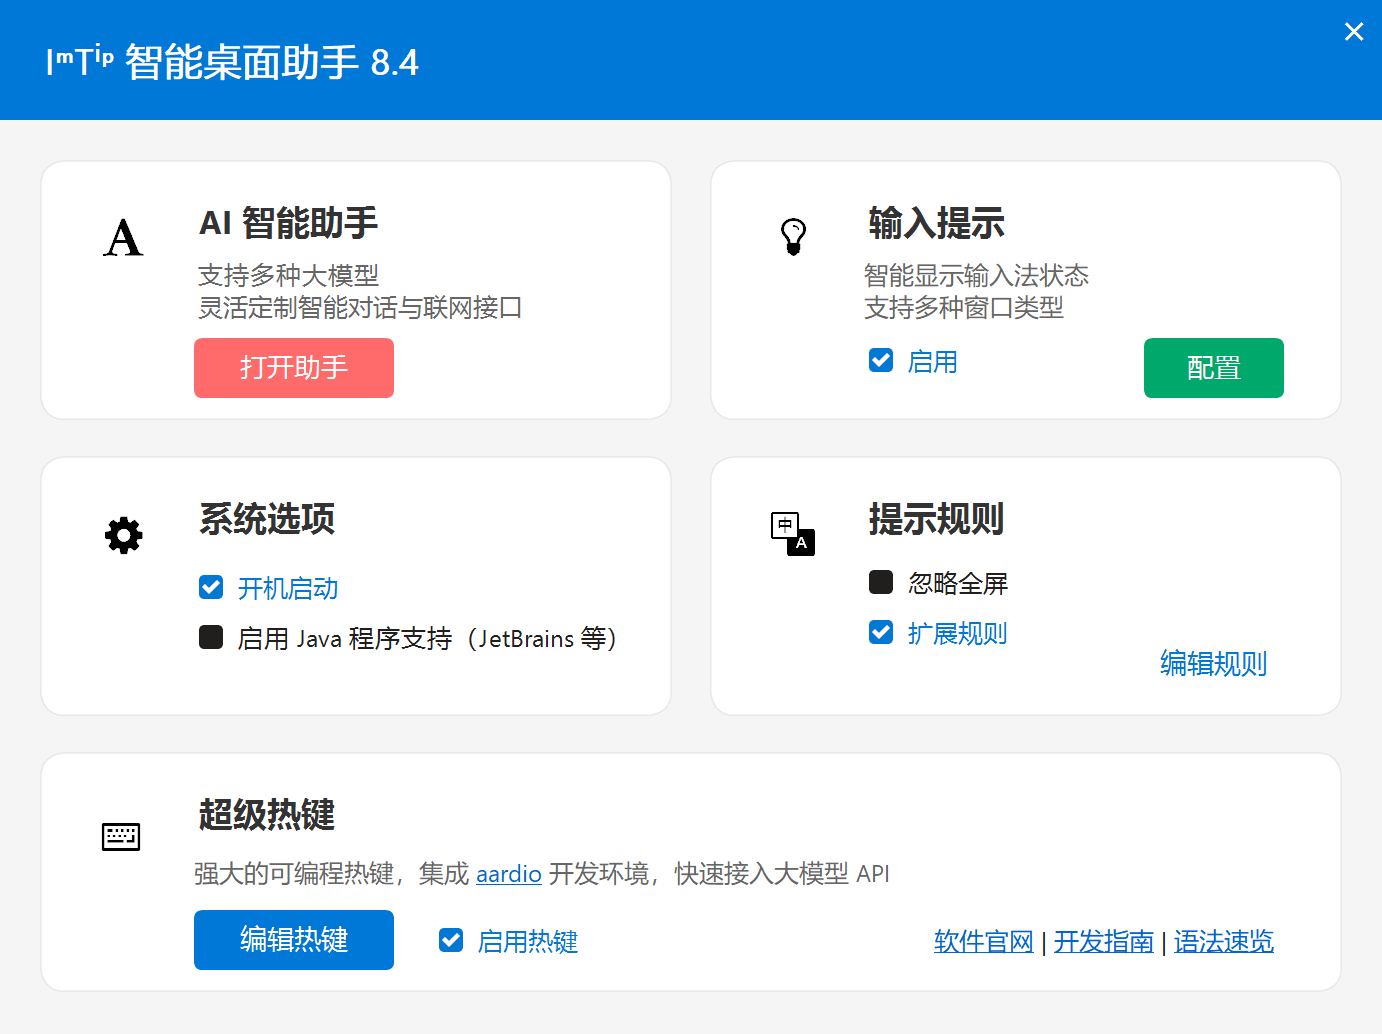
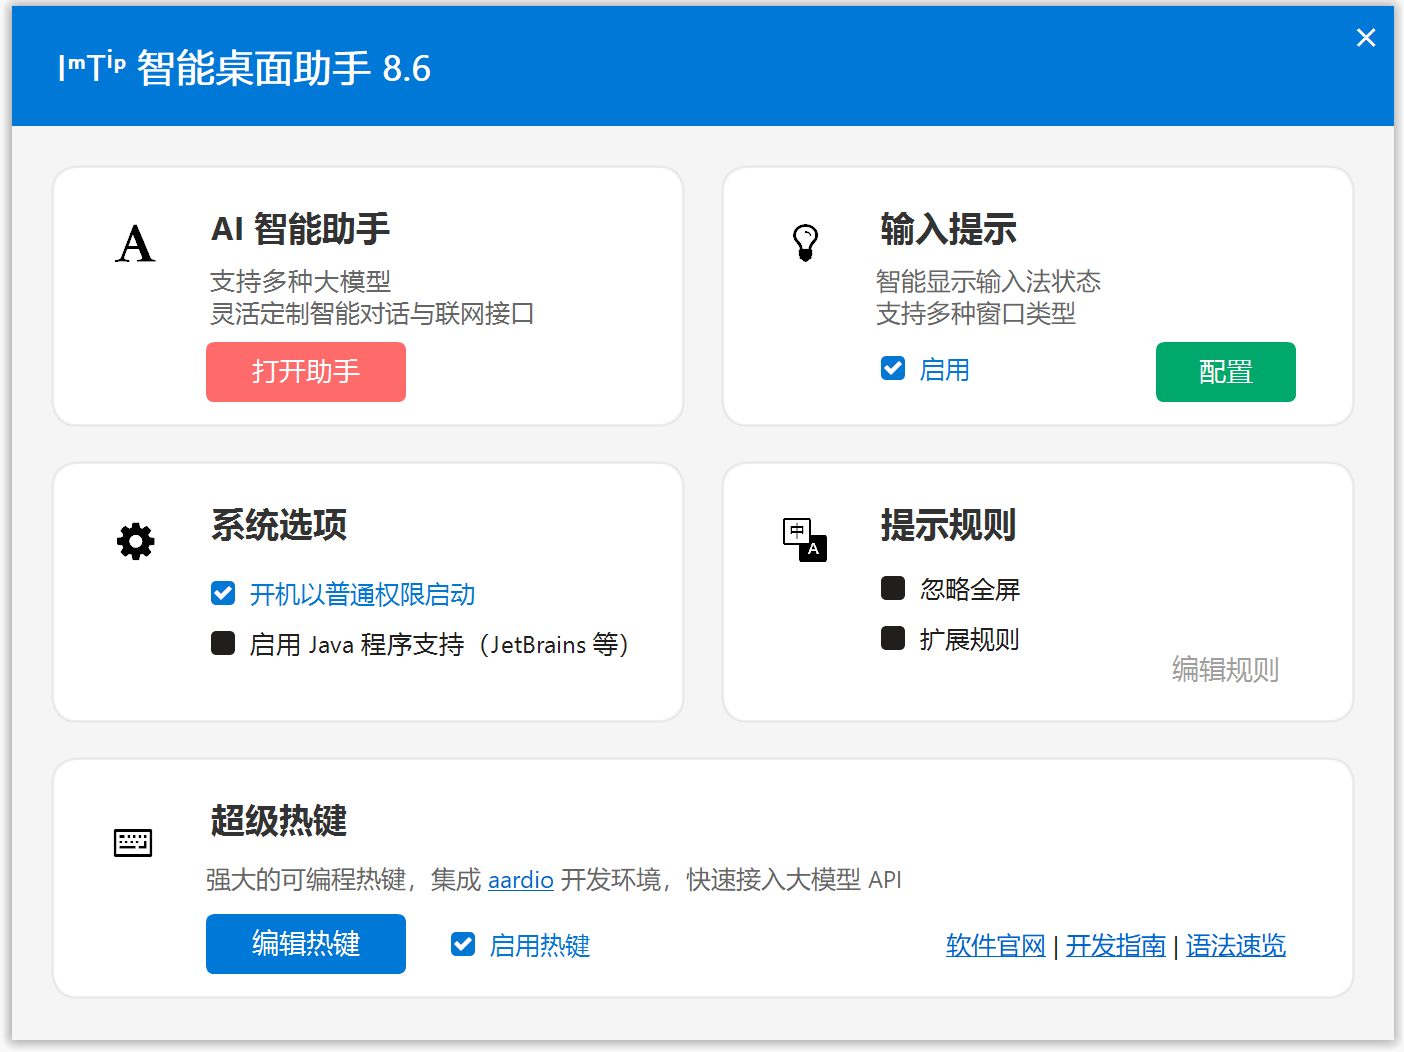
更新截图

diff --git a/README.md b/README.md
@@ -2,7 +2,7 @@
  
 [超级热键](#一超级热键) ·  [AI 集成](#二-ai-集成)  ·  [输入跟踪](#三输入跟踪提示)
 
-> <a href="https://imtip.aardio.com/update/ImTip.7z">点这里下载 ImTip</a> - 仅 907 KB  
+> <a href="https://imtip.aardio.com/update/ImTip.7z">点这里下载 ImTip</a> - 仅 906 KB  
 > 独立 EXE 无任何外部依赖，兼容 XP，Vista，Win7，Win8，Win10，Win11 ……  
 
 ## 一、超级热键